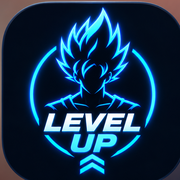
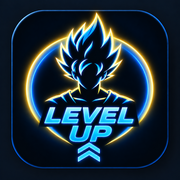
Add files via upload

diff --git a/service-worker.js b/service-worker.js
@@ -1,5 +1,5 @@
-const CACHE='level-up-fitness-v41-correct-winter-soldier-20260904';
+const CACHE='level-up-fitness-v42-final-approved-logo-20260904';
 const PREFIX='level-up-fitness-';
-self.addEventListener('install',e=>{self.skipWaiting();e.waitUntil(caches.open(CACHE).then(c=>c.addAll(['./','./index.html','./manifest.webmanifest','./icon-192.png','./icon-512.png','./apple-touch-icon.png','./assets/level_up_logo_blue_gold_v40.png'])))});
+self.addEventListener('install',e=>{self.skipWaiting();e.waitUntil(caches.open(CACHE).then(c=>c.addAll(['./','./index.html','./manifest.webmanifest','./icon-192.png','./icon-512.png','./apple-touch-icon.png','./assets/level_up_logo_FINAL_v42.png'])))});
 self.addEventListener('activate',e=>{e.waitUntil(caches.keys().then(keys=>Promise.all(keys.filter(k=>k.startsWith(PREFIX)&&k!==CACHE).map(k=>caches.delete(k)))).then(()=>self.clients.claim()))});
 self.addEventListener('fetch',e=>{if(e.request.method!=='GET')return;e.respondWith(fetch(e.request).then(r=>{const copy=r.clone();caches.open(CACHE).then(c=>c.put(e.request,copy));return r}).catch(()=>caches.match(e.request).then(r=>r||caches.match('./index.html'))))});

diff --git a/index.html b/index.html
@@ -797,7 +797,7 @@ html{background:#050b12}.wrap{padding-bottom:96px!important}.card{border:1px sol
 }
 </style>
 </head><body>
-<header class="levelup-header"><div class="levelup-brand"><img src="assets/level_up_logo_blue_gold_v40.png" alt="" class="levelup-mark"><div class="levelup-wordmark"><span>LEVEL</span><strong>UP</strong></div></div></header>
+<header class="levelup-header"><div class="levelup-brand"><img src="assets/level_up_logo_FINAL_v42.png" alt="" class="levelup-mark"><div class="levelup-wordmark"><span>LEVEL</span><strong>UP</strong></div></div></header>
 <div class="wrap">
 <div id="progressView" class="tab-view active">
   <div class="card hero"><div class="eyebrow">Current fitness level</div><div id="currentChar" class="big">Hawkeye</div><div id="heroMedia"><img src="assets/01_hawkeye_v36.jpeg" alt="Hawkeye" class="demo-image-clean char-image show"></div><div id="currentMeta" class="meta">Level 1 • Foundation</div><div class="progress"><div id="bar" class="bar"></div></div><div id="nextBox" class="next-level-card"><h3>Next Level</h3><div>Enter your current bests, assessments and tap Calculate Rankings.</div></div></div>
